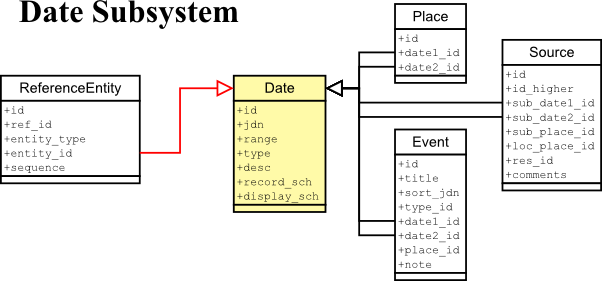
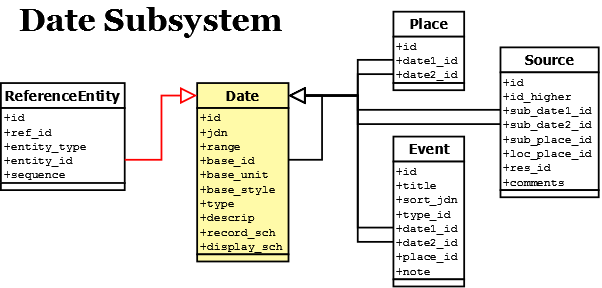
Update website and diagrams for database 0.0.8.2
git-svn-id: https://svn.code.sf.net/p/thefamilypack/code/tfp/trunk@144 0b5b8454-fdc9-41d1-a9ee-242ce37e0c65

Changed region(s): [[0.0, 0.0, 1.0, 1.0], [0.0299, 0.0, 0.4784, 0.1423]]

diff --git a/website/db/dbdesign.htm b/website/db/dbdesign.htm
@@ -72,29 +72,7 @@
   <a href="database.htm" class="m-item prev">&lt;&lt;</a>
   <a href="dbdiagram.htm" class="m-item next">&gt;&gt;</a>
 </div>
-<!--
-<div id="menu">
-  <a href="../index.htm" class="m-item">Home</a>
-  <a href="../man/manual0-0.htm" class="m-item">TFP Manual</a>
-    <a href="database.htm" class="m-item">Database</a>
-    <a href="dbdesign.htm" class="m-item level1 thispage">Definitions</a>
-    <a href="dbdiagram.htm" class="m-item level1">Diagram</a>
-    <a href="admin/admin.htm" class="m-item level1">Administration</a>
-    <a href="evid/evidence.htm" class="m-item level1">Evidence</a>
-    <a href="conc/conclusions.htm" class="m-item level1">Conclusions</a>
-  <a href="../com/common.htm" class="m-item">Common Data</a>
-  <a href="../dev/develop.htm" class="m-item">Development</a>
-  <p style="text-align: center;">
-    The project page at<br />
-    <a href="http://sourceforge.net/projects/thefamilypack">
-      <img src="http://sflogo.sourceforge.net/sflogo.php?group_id=353528&amp;type=13"
-        width="120" height="30"
-        alt="Get The Family Pack at SourceForge.net. Fast, secure and Free Open Source software downloads"
-      />
-    </a>
-  </p>
-</div>
--->
+
 <div id="content" class="nomenu">
 
 <blockquote>
@@ -331,6 +309,21 @@
      <td>The inclusive number of days in the date range. A value of 0 indicates a range of 1 day</td>
     </tr>
     <tr>
+     <td>base_id</td>
+     <td>Integer</td>
+     <td>If the date is relative, this points to the date it is relative to.</td>
+    </tr>
+    <tr>
+     <td>base_unit</td>
+     <td>Integer</td>
+     <td>For relative dates, sets the units: 0=Unstated, 1=Year, 2=Month, 3=Week and 4=Day.</td>
+    </tr>
+    <tr>
+     <td>base_style</td>
+     <td>Integer</td>
+     <td>For relative dates, this indicates how the relative date is to be interpreted.</td>
+    </tr>
+    <tr>
      <td>type</td>
      <td>Integer</td>
      <td>
@@ -339,7 +332,7 @@
      </td>
     </tr>
     <tr>
-     <td>desc</td>
+     <td>descrip</td>
      <td>Text</td>
      <td>A text representation of the date in addition or in place of the date number</td>
     </tr>
@@ -943,7 +936,7 @@
      <td>Optional, the unique call number for a particular Source in a particular Repository.</td>
     </tr>
     <tr>
-     <td>desc</td>
+     <td>descrip</td>
      <td>Text</td>
      <td>Optional notes about the particular Source in the Repository, such as notes describing the condition of the copy represented by the particular call number.</td>
     </tr>

diff --git a/website/db/dbdiagram.htm b/website/db/dbdiagram.htm
@@ -29,8 +29,9 @@
 </blockquote>
 
 <p></p>
+<center>
 <img src='tfp-data.png' alt='Database Diagram' />
-
+</center>
 </div>
 
 <hr />
